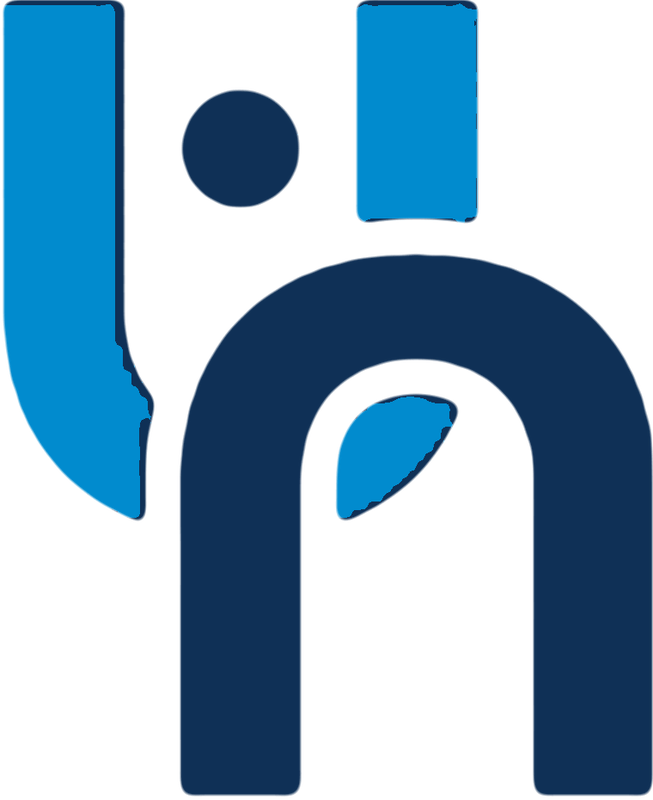
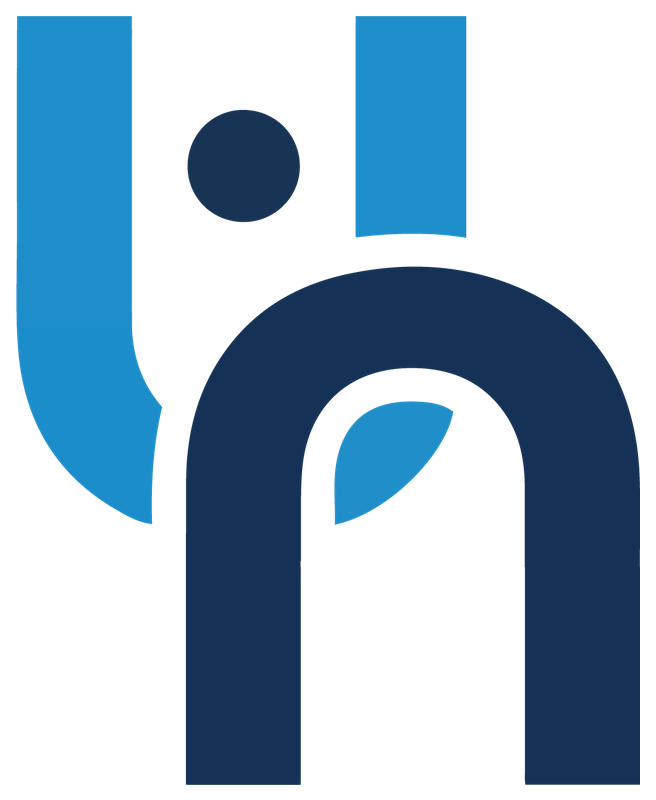
New NUSU brand assets and real card artwork; smoother skeleton and login entrance
- Brand files regenerated from the new NUSU artwork (sources kept in docs/brand/source)
- 3D lanyard card uses the real front/back artwork; card and skeleton now use the art's 1.37:1 shape
- Skeleton animates transform/opacity only and crossfades into the 3D scene
- Login brand panel and form card ease in on arrival

diff --git a/components/landing/lanyard-skeleton.tsx b/components/landing/lanyard-skeleton.tsx
@@ -1,8 +1,8 @@
 import { cn } from "cn";
 import type { CSSProperties } from "react";
 
-/** Soft placeholder bar on the navy card; breathes while loading. */
-const bar = "rounded-full bg-white/[0.09] motion-safe:animate-[skeleton-breathe_2.4s_ease-in-out_infinite]";
+/** Soft placeholder bar on the navy card. */
+const bar = "rounded-full bg-white/[0.09]";
 
 /** Navy woven strap, matching the real lanyard's colours. */
 const STRAP_STYLE: CSSProperties = {
@@ -31,11 +31,11 @@ export function LanyardSkeleton({ className, done = false }: { className?: strin
       aria-label={done ? undefined : "Loading the SU Card preview"}
       aria-hidden={done || undefined}
     >
-      {/* Soft glow behind the card */}
-      <div className="absolute left-1/2 top-[58%] -translate-x-1/2 -translate-y-1/2 w-[min(70%,420px)] aspect-square rounded-full bg-macaw-blue/15 dark:bg-macaw-blue/20 blur-3xl" />
+      {/* Soft radial glow behind the card (uses radial gradient instead of blur-3xl to avoid rasterization overhead) */}
+      <div className="absolute left-1/2 top-[58%] -translate-x-1/2 -translate-y-1/2 w-[min(70%,420px)] aspect-square rounded-full bg-[radial-gradient(ellipse_at_center,rgb(1_139_206/0.15)_0%,rgb(1_139_206/0.05)_50%,transparent_70%)] dark:bg-[radial-gradient(ellipse_at_center,rgb(1_139_206/0.20)_0%,rgb(1_139_206/0.08)_50%,transparent_70%)] pointer-events-none" />
 
       {/* Hanging assembly, pivoting from the top edge */}
-      <div className="relative h-full flex flex-col items-center origin-top motion-safe:animate-[lanyard-sway_5s_ease-in-out_infinite]">
+      <div className="relative h-full flex flex-col items-center origin-top will-change-transform motion-safe:animate-[lanyard-sway_5s_ease-in-out_infinite]">
         {/* Strap, fading in from the top */}
         <div
           className="w-[11%] max-w-14 min-w-9 flex-1 max-h-[36%] shadow-[inset_0_-6px_8px_-6px_rgb(0_0_0/0.5)] [mask-image:linear-gradient(to_bottom,transparent,#000_72px)]"
@@ -55,7 +55,7 @@ export function LanyardSkeleton({ className, done = false }: { className?: strin
         </div>
 
         {/* Card */}
-        <div className="relative -mt-[22px] w-[min(78%,440px)] aspect-[1.585/1]">
+        <div className="relative -mt-[22px] w-[min(78%,440px)] aspect-[1.37/1]">
           <div className="absolute inset-0 overflow-hidden rounded-[22px] bg-gradient-to-br from-[#16477A] via-[#0F3056] to-[#0A2140] ring-1 ring-inset ring-white/15 shadow-[0_30px_60px_-20px_rgb(15_48_86/0.55),0_12px_24px_-12px_rgb(0_0_0/0.35)]">
             {/* Top highlight, like clearcoat catching the light */}
             <div className="absolute inset-x-0 top-0 h-1/2 bg-gradient-to-b from-white/[0.10] to-transparent" />
@@ -64,33 +64,33 @@ export function LanyardSkeleton({ className, done = false }: { className?: strin
             {/* Sky foil strip */}
             <div className="absolute left-0 top-[16%] h-[1.5%] w-[38%] bg-gradient-to-r from-macaw-blue/70 to-transparent" />
 
-            {/* Placeholder content */}
-            <div className="absolute inset-0 p-[6%] pt-[13%] flex justify-between gap-[6%]">
+            {/* Placeholder content: single unified breathe animation */}
+            <div className="absolute inset-0 p-[6%] pt-[13%] flex justify-between gap-[6%] motion-safe:animate-[skeleton-breathe_2.4s_ease-in-out_infinite]">
               <div className="flex flex-col justify-between w-[52%]">
                 <div className={cn(bar, "h-[10%] w-[34%] rounded-md")} />
                 <div className="space-y-[6%]">
                   <div className={cn(bar, "h-7 sm:h-10 w-full rounded-lg bg-white/[0.13]")} />
-                  <div className={cn(bar, "h-2 sm:h-2.5 w-4/5 [animation-delay:150ms]")} />
+                  <div className={cn(bar, "h-2 sm:h-2.5 w-4/5")} />
                 </div>
                 <div className="flex items-center gap-2">
-                  <div className={cn(bar, "h-4 sm:h-5 w-[38%] bg-macaw-blue/35 [animation-delay:300ms]")} />
-                  <div className={cn(bar, "h-2 sm:h-2.5 w-[42%] [animation-delay:450ms]")} />
+                  <div className={cn(bar, "h-4 sm:h-5 w-[38%] bg-macaw-blue/35")} />
+                  <div className={cn(bar, "h-2 sm:h-2.5 w-[42%]")} />
                 </div>
               </div>
               {/* QR placeholder: a white tile with a faint dot grid */}
               <div className="self-end aspect-square w-[33%] rounded-xl bg-white/[0.92] p-[5%] shadow-[0_6px_14px_-6px_rgb(0_0_0/0.5)]">
-                <div className="size-full rounded-md [background-image:radial-gradient(rgb(15_48_86/0.28)_32%,transparent_36%)] [background-size:12.5%_12.5%] motion-safe:animate-[skeleton-breathe_2.4s_ease-in-out_infinite] [animation-delay:200ms]" />
+                <div className="size-full rounded-md [background-image:radial-gradient(rgb(15_48_86/0.28)_32%,transparent_36%)] [background-size:12.5%_12.5%]" />
               </div>
             </div>
 
             {/* Diagonal sheen sweeping across the gloss */}
-            <div className="absolute inset-y-0 left-0 w-1/3 bg-gradient-to-r from-transparent via-white/[0.14] to-transparent motion-safe:animate-[card-sheen_2.8s_ease-in-out_infinite]" />
+            <div className="pointer-events-none absolute inset-y-0 left-0 w-1/3 bg-gradient-to-r from-transparent via-white/[0.14] to-transparent will-change-transform motion-safe:animate-[card-sheen_2.8s_ease-in-out_infinite]" />
           </div>
         </div>
       </div>
 
-      {/* Contact shadow that follows the sway */}
-      <div className="absolute left-1/2 bottom-[7%] -ml-[min(30%,170px)] w-[min(60%,340px)] h-5 rounded-[50%] bg-black/25 dark:bg-black/50 blur-xl motion-safe:animate-[lanyard-shadow_5s_ease-in-out_infinite]" />
+      {/* Contact shadow that follows the sway: radial gradient without blur filter for pure composited transforms */}
+      <div className="absolute left-1/2 bottom-[7%] -ml-[min(30%,170px)] w-[min(60%,340px)] h-5 rounded-[50%] bg-[radial-gradient(ellipse_at_center,rgb(0_0_0/0.25)_0%,rgb(0_0_0/0.10)_45%,transparent_70%)] dark:bg-[radial-gradient(ellipse_at_center,rgb(0_0_0/0.50)_0%,rgb(0_0_0/0.20)_45%,transparent_70%)] will-change-transform motion-safe:animate-[lanyard-shadow_5s_ease-in-out_infinite]" />
 
       {!done && <span className="sr-only">Loading…</span>}
     </div>

diff --git a/app/login/page.tsx b/app/login/page.tsx
@@ -236,9 +236,9 @@ function LoginContent() {
       : null;
 
   return (
-    <div className="min-h-screen bg-slate-50 dark:bg-zinc-950 text-foreground flex flex-col lg:grid lg:grid-cols-12 relative isolate selection:bg-brand selection:text-white">
+    <div className="min-h-screen bg-background text-foreground flex flex-col lg:grid lg:grid-cols-12 relative isolate selection:bg-brand selection:text-white">
       {/* 1. Left Brand Panel (Desktop Split Layout) */}
-      <div className="hidden lg:flex lg:col-span-5 relative bg-gradient-to-b from-[#0F3056] via-[#0D2849] to-[#0A1E38] text-white flex-col justify-between p-8 xl:p-10 overflow-hidden border-r border-[#0A2240] shadow-2xl">
+      <div className="hidden lg:flex lg:col-span-5 relative bg-gradient-to-b from-[#0F3056] via-[#0D2849] to-[#0A1E38] text-white flex-col justify-between p-8 xl:p-10 overflow-hidden border-r border-[#0A2240] shadow-2xl animate-login-panel">
         {/* Background decorative dot-grid texture & ambient glows/rings */}
         <div className="absolute inset-0 pointer-events-none overflow-hidden" aria-hidden="true">
           {/* Dot-grid texture with radial fade mask */}
@@ -391,7 +391,7 @@ function LoginContent() {
         </div>
 
         {/* Form Container */}
-        <main className="w-full max-w-md mx-auto my-auto">
+        <main className="w-full max-w-md mx-auto my-auto animate-login-card">
           <Card className="border-2 border-slate-200 dark:border-zinc-800 bg-white dark:bg-zinc-900 shadow-xl rounded-2xl overflow-hidden p-6 sm:p-8">
             {/* Mobile Header Logo */}
             <div className="lg:hidden mb-6 flex justify-center">

diff --git a/app/globals.css b/app/globals.css
@@ -360,6 +360,16 @@
   .animate-skip-badge-pop {
     animation: skipBadgePop 0.7s cubic-bezier(0.16, 1, 0.3, 1) forwards;
   }
+
+  .animate-login-panel {
+    animation: loginPanelEnter 0.5s cubic-bezier(0.22, 1, 0.36, 1) backwards;
+    will-change: transform, opacity;
+  }
+
+  .animate-login-card {
+    animation: loginCardEnter 0.5s cubic-bezier(0.22, 1, 0.36, 1) 80ms backwards;
+    will-change: transform, opacity;
+  }
 }
 
 /* Keyframes */
@@ -423,6 +433,28 @@
   100% { opacity: 0; transform: scale(0.92) translateY(-4px); }
 }
 
+@keyframes loginPanelEnter {
+  from {
+    opacity: 0;
+    transform: translateX(-24px);
+  }
+  to {
+    opacity: 1;
+    transform: none;
+  }
+}
+
+@keyframes loginCardEnter {
+  from {
+    opacity: 0;
+    transform: translateY(16px);
+  }
+  to {
+    opacity: 1;
+    transform: none;
+  }
+}
+
 @media (prefers-reduced-motion: reduce) {
   .animate-fade-in,
   .animate-slide-in-right,
@@ -433,7 +465,9 @@
   .animate-page-enter,
   .animate-card-enter,
   .animate-pulse-glow,
-  .animate-skip-badge-pop {
+  .animate-skip-badge-pop,
+  .animate-login-panel,
+  .animate-login-card {
     animation: none !important;
     transform: none !important;
   }

diff --git a/components/landing/lanyard-hero.tsx b/components/landing/lanyard-hero.tsx
@@ -106,7 +106,7 @@ export function LanyardHero() {
               gl.toneMapping = THREE.NeutralToneMapping;
             }}
             aria-hidden="true"
-            className={`w-full h-full transition-opacity duration-500 ${sceneReady ? "opacity-100" : "opacity-0"}`}
+            className={`w-full h-full transition-opacity duration-400 ease-in-out ${sceneReady ? "opacity-100" : "opacity-0 pointer-events-none"}`}
             style={{
               pointerEvents: "auto",
               maskImage: CANVAS_FADE,
@@ -120,7 +120,7 @@ export function LanyardHero() {
 
           <LanyardSkeleton
             done={sceneReady}
-            className={`transition-opacity ${sceneReady ? "opacity-0 duration-200" : "opacity-100 duration-500"}`}
+            className={`transition-opacity duration-400 ease-in-out ${sceneReady ? "opacity-0 pointer-events-none" : "opacity-100"}`}
           />
         </>
       )}

diff --git a/components/landing/lanyard-scene.tsx b/components/landing/lanyard-scene.tsx
@@ -7,10 +7,10 @@ import { Environment, Lightformer, RoundedBox, useCursor } from "@react-three/dr
 import { LanyardSim, TICK } from "./lanyard-sim";
 import { CARD_TEX_H, CARD_TEX_W, SLOT, STRAP_TEX_H, STRAP_TEX_W, createCardTextures } from "./card-textures";
 
-// Card in world units (ISO ID-1 proportions).
+// Card in world units, in the artwork's proportions.
 const CARD_W = 3.2;
 const CARD_H = (CARD_W * CARD_TEX_H) / CARD_TEX_W;
-const CARD_R = 0.17;
+const CARD_R = 0.11;
 const CARD_DEPTH = 0.028;
 const BEVEL = 0.008;
 const px = (v: number) => (v / CARD_TEX_W) * CARD_W;

diff --git a/components/landing/card-textures.ts b/components/landing/card-textures.ts
@@ -2,9 +2,9 @@ import * as THREE from "three";
 import QRCode from "qrcode";
 import { CARD_ART } from "./card-art";
 
-/** Card face texture size — ISO ID-1 ratio (85.6 × 54 mm ≈ 1.585). */
+/** Card face texture size, matching the card artwork in public/card (1.37 : 1). */
 export const CARD_TEX_W = 2560;
-export const CARD_TEX_H = 1615;
+export const CARD_TEX_H = 1868;
 
 /** Slot punched near the top edge of the card, in texture pixels (kept clear of artwork). */
 export const SLOT = { cx: CARD_TEX_W / 2, cy: 108, w: 400, h: 72 };

diff --git a/components/landing/card-art.ts b/components/landing/card-art.ts
@@ -3,6 +3,6 @@
  * leave null to use the built-in design. Spec: docs/card-design/README.md.
  */
 export const CARD_ART: { front: string | null; back: string | null } = {
-  front: null,
-  back: null,
+  front: "/card/front.png",
+  back: "/card/back.png",
 };
